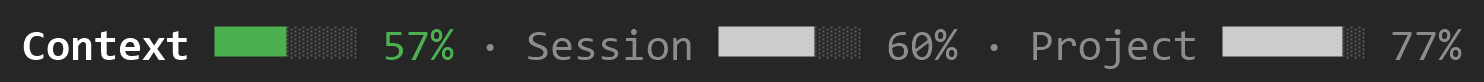
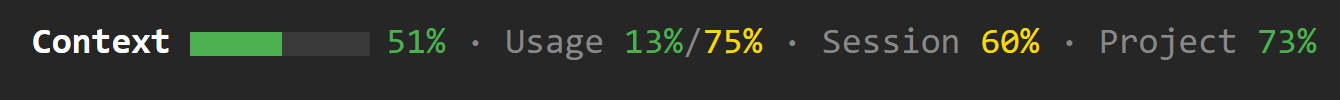
Release 0.3.0: README, CHANGELOG, new screenshots and social preview

Changed region(s): [[0.0, 0.2683, 1.0, 0.7317], [0.7343, 0.7805, 0.7649, 0.8293], [0.6731, 0.2683, 0.7037, 0.3171]]

diff --git a/README.md b/README.md
@@ -2,9 +2,9 @@
 
 [![License: MIT](https://img.shields.io/badge/license-MIT-blue.svg)](LICENSE)
 
-**A panel for Claude Code that answers "where am I?"** It shows how full the context is, how far along the current session is, how far along the whole project is, and what is still left. When the context fills up, it asks Claude to write a handoff so you can continue in a fresh session.
+**A panel for Claude Code that answers "where am I?"** It shows how full the context is, how much of your 5-hour and weekly usage you have spent, how far along the current session is (and any parallel sessions), which subagents are running, how far along the whole project is, and what is still left. When the context fills up, it asks Claude to write a handoff so you can continue in a fresh session.
 
-> Early version (0.2). Works in the author's setup; feedback from real sessions is welcome.
+> Early version (0.3). Works in the author's setup; feedback from real sessions is welcome.
 
 ## What you see
 
@@ -17,9 +17,14 @@ Or a side pane with the lists of what is left (`/whatnow side`):
 ![The side pane](docs/side-pane.png)
 
 - **Context**: tokens used against a limit you choose (default 150k = 100%).
-- **Session**: % of the checklist under `## This session` in `PROGRESS.md`.
-- **Project**: % of the rest of the checklist in `PROGRESS.md`.
+- **Usage**: your 5-hour and weekly limits (subscription accounts only; shows "no data" otherwise).
+- **Main session**: % of the checklist under `## This session` in `PROGRESS.md`, with its one-sentence `Task:` line.
+- **Parallel session**: the same for each `claude -w <name>` copy, read from `.claude/worktrees/<name>/PROGRESS.md`.
+- **Subagents**: the ones running right now, with what each is doing.
+- **Project**: % of the rest of the checklist in `PROGRESS.md`, with its `Status:` line.
 - **Left**: the unchecked items of each list (side pane).
+
+Every percentage is coloured: for context and usage, green below 70%, yellow from 70%, red from 90%; for progress the other way round (red below 30%, yellow below 70%, green above).
 
 ## Install
 
@@ -43,6 +48,7 @@ Status: one sentence on how it is going
 - [ ] Pending thing
 
 ## This session
+Task: one sentence on what this conversation is doing
 - [x] Step one
 - [ ] Step two
 ```
@@ -57,6 +63,8 @@ Status: one sentence on how it is going
 | `/whatnow handoff` | Claude writes the handoff now |
 | `/whatnow en`, `/whatnow es`, `/whatnow auto` | change language (any `lang/<code>.json` works as `/whatnow <code>`) |
 | `/whatnow help` | list commands |
+
+After every turn a small model (Haiku, one direct call, no extra conversation turn) brings `PROGRESS.md` up to date: it ticks finished items, adds new pending ones and rewrites the `Status:` and `Task:` lines. It never deletes or rewords an existing item; the full clean-up is done by the model you are using when you run `/whatnow progress` or `/whatnow handoff`. Parallel sessions (`claude -w`) must keep their own `PROGRESS.md` in their copy, because the file is git-ignored and does not travel with the worktree.
 
 The handoff goes to `.claude/HANDOFF.md` and is offered to the next session you open in that folder. Tip: open Claude Code inside the project folder, not a parent folder, so these files land in the right place. Adding `PROGRESS.md` and `.claude/` to your `.gitignore` keeps them private.
 

diff --git a/CHANGELOG.md b/CHANGELOG.md
@@ -2,6 +2,14 @@
 
 ## [Unreleased]
 
+## [0.3.0]
+- Side pane redesigned: context, 5-hour usage and weekly usage in three columns; titles in capitals, rules between sections, sentences start with a capital.
+- Usage windows (5 hours and week) with colours on every percentage.
+- Main session and each parallel session (`claude -w`) with its one-sentence `Task:` line and what is left.
+- Running subagents listed in the pane.
+- `PROGRESS.md` is kept up to date after each turn by a small model call (ticks, new items, `Status:` and `Task:`).
+- Usage figures are requested directly, so they show before the first turn ends.
+
 ## [0.2.0]
 - Panel with context use, session progress, project progress and the two "Left" lists.
 - Band above the prompt (one line) or side pane (`/whatnow side`).
